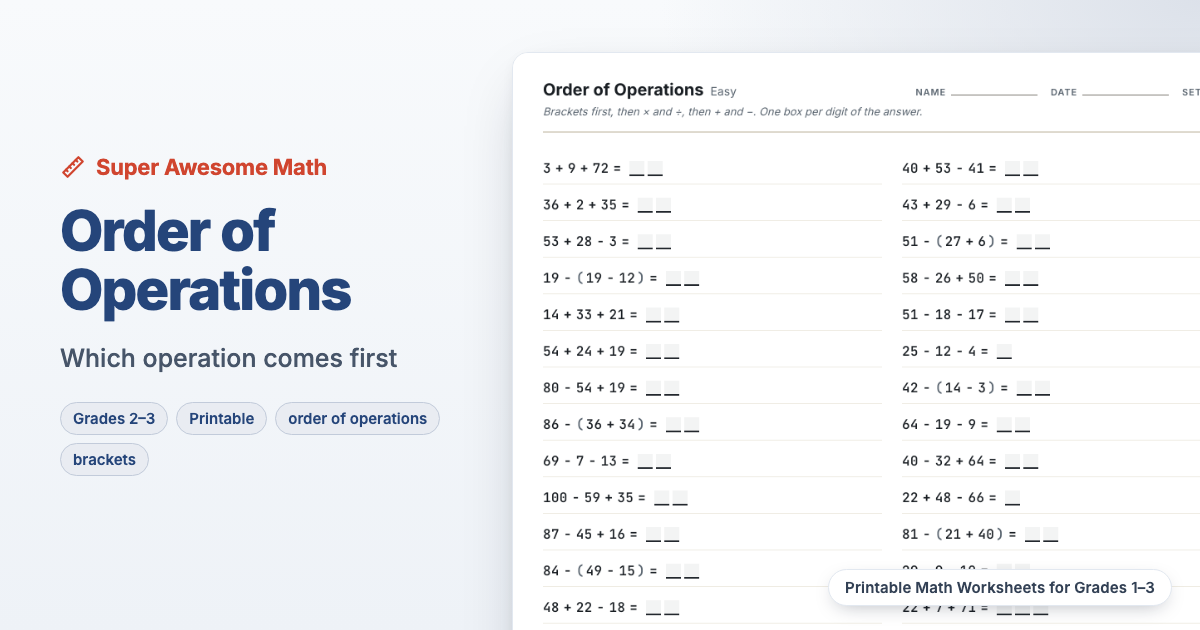
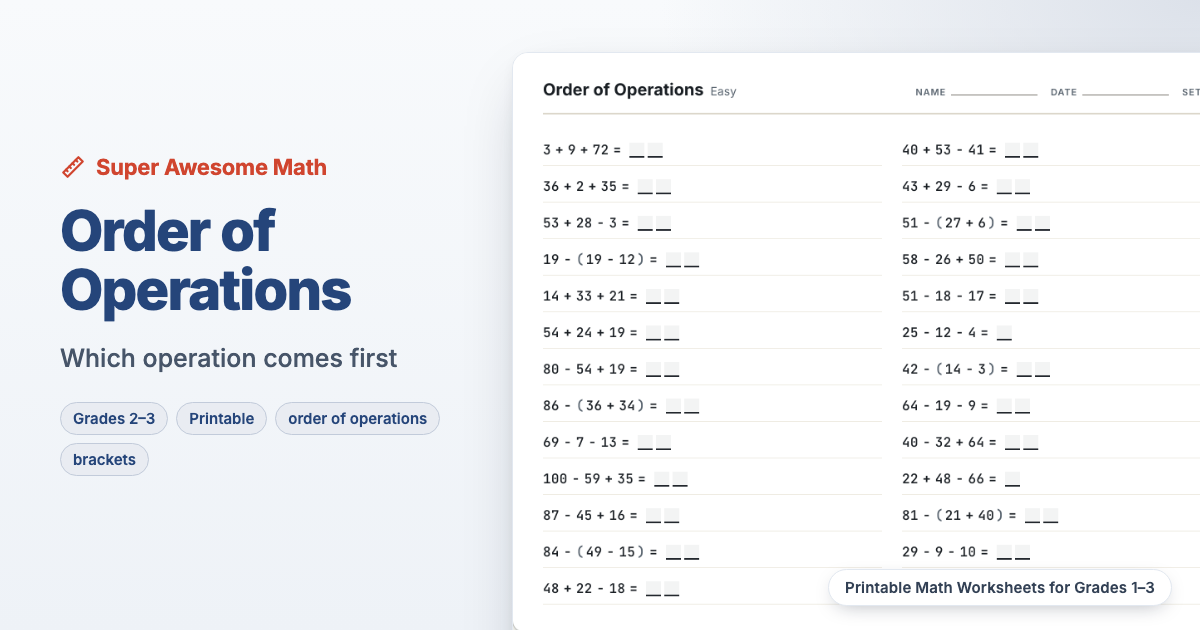
fix: drop the instruction line from the Order of Operations sheet
The header told a child the rule the sheet exists to make them recall. It
was also the only sheet-specific hint on any worksheet, and it earned its
space nowhere: a parent handing over the page already knows what it is for.

The header band shrinks from 94px to 70px as a result, so ORDER_HEADER_PX is
re-measured rather than left at a number that happens to still round to 13
rows. The row count is unchanged — the 37px it frees is short of a 44px row —
so the sheet simply sits higher on the page.

`order.instructions` is removed from all seven message files rather than left
as a dead key, and the OG card is regenerated.

Changed region(s): [[0.4317, 0.1508, 1.0, 0.9651], [0.8325, 0.9651, 0.8633, 0.9952]]

diff --git a/src/components/OrderOfOperations.jsx b/src/components/OrderOfOperations.jsx
@@ -11,12 +11,12 @@ import { usePreviewScale } from '../hooks/usePreviewScale'
 import { LEVELS, generateSheet, glyph } from '../lib/orderOfOperations'
 
 /**
- * Header budget for listRowsPerPage: the title, the ruled Name/Date/Set block,
- * the instruction line and the space below it, measured on the printed sheet.
- * 88px in the Latin and Cyrillic locales; 94 is Chinese, where the instruction
- * wraps to two lines, and the tallest translation is the one that has to fit.
+ * Header budget for listRowsPerPage: the title, the ruled Name/Date/Set block
+ * and the space below them, measured on the printed sheet. 66px in the Latin
+ * and Cyrillic locales; 70 is Chinese, whose taller line box sets the budget,
+ * because the tallest translation is the one that has to fit.
  */
-export const ORDER_HEADER_PX = 94
+export const ORDER_HEADER_PX = 70
 /** JetBrains Mono advance at the printed figure size, for the width budget. */
 export const ORDER_CHAR_PX = 9
 /** One answer box and the gap between two, matching OrderOfOperations.css.
@@ -126,7 +126,6 @@ export default function OrderOfOperations() {
           <WorksheetHeader
             title={t('order.title')}
             meta={t(`order.${level}`)}
-            instructions={t('order.instructions')}
             stamp={setStamp(problems)}
           />
 

diff --git a/src/i18n/messages/ru.js b/src/i18n/messages/ru.js
@@ -218,7 +218,6 @@ export default {
     useBrackets: 'Использовать скобки',
     defaultNotation: 'dot',
     title: 'Порядок действий',
-    instructions: 'Сначала скобки, потом · и :, затем + и −. По одной клетке на каждую цифру ответа.',
   },
 
   eq: {

diff --git a/src/i18n/messages/en.js b/src/i18n/messages/en.js
@@ -224,7 +224,6 @@ export default {
     // Which signs this language's schools write; the setting overrides it once chosen.
     defaultNotation: 'cross',
     title: 'Order of Operations',
-    instructions: 'Brackets first, then × and ÷, then + and −. One box per digit of the answer.',
   },
 
   eq: {

diff --git a/src/i18n/messages/es.js b/src/i18n/messages/es.js
@@ -213,7 +213,6 @@ export default {
     useBrackets: 'Usar paréntesis',
     defaultNotation: 'cross',
     title: 'Orden de las operaciones',
-    instructions: 'Primero los paréntesis, luego × y ÷, después + y −. Una casilla por cada cifra de la respuesta.',
   },
 
   eq: {

diff --git a/src/i18n/messages/fr.js b/src/i18n/messages/fr.js
@@ -213,7 +213,6 @@ export default {
     useBrackets: 'Utiliser les parenthèses',
     defaultNotation: 'cross',
     title: 'Ordre des opérations',
-    instructions: 'Les parenthèses d’abord, puis × et ÷, puis + et −. Une case par chiffre de la réponse.',
   },
 
   eq: {

diff --git a/src/i18n/messages/it.js b/src/i18n/messages/it.js
@@ -213,7 +213,6 @@ export default {
     useBrackets: 'Usa le parentesi',
     defaultNotation: 'dot',
     title: 'Ordine delle operazioni',
-    instructions: 'Prima le parentesi, poi · e :, poi + e −. Una casella per ogni cifra del risultato.',
   },
 
   eq: {

diff --git a/src/i18n/messages/de.js b/src/i18n/messages/de.js
@@ -213,7 +213,6 @@ export default {
     useBrackets: 'Klammern verwenden',
     defaultNotation: 'dot',
     title: 'Rechenreihenfolge',
-    instructions: 'Zuerst die Klammern, dann · und :, dann + und −. Ein Kästchen je Ziffer der Antwort.',
   },
 
   eq: {

diff --git a/src/i18n/messages/zh.js b/src/i18n/messages/zh.js
@@ -213,7 +213,6 @@ export default {
     useBrackets: '使用括号',
     defaultNotation: 'cross',
     title: '运算顺序',
-    instructions: '先算括号，再算 × 和 ÷，最后算 + 和 −。答案每一位数字一个方框。',
   },
 
   eq: {
